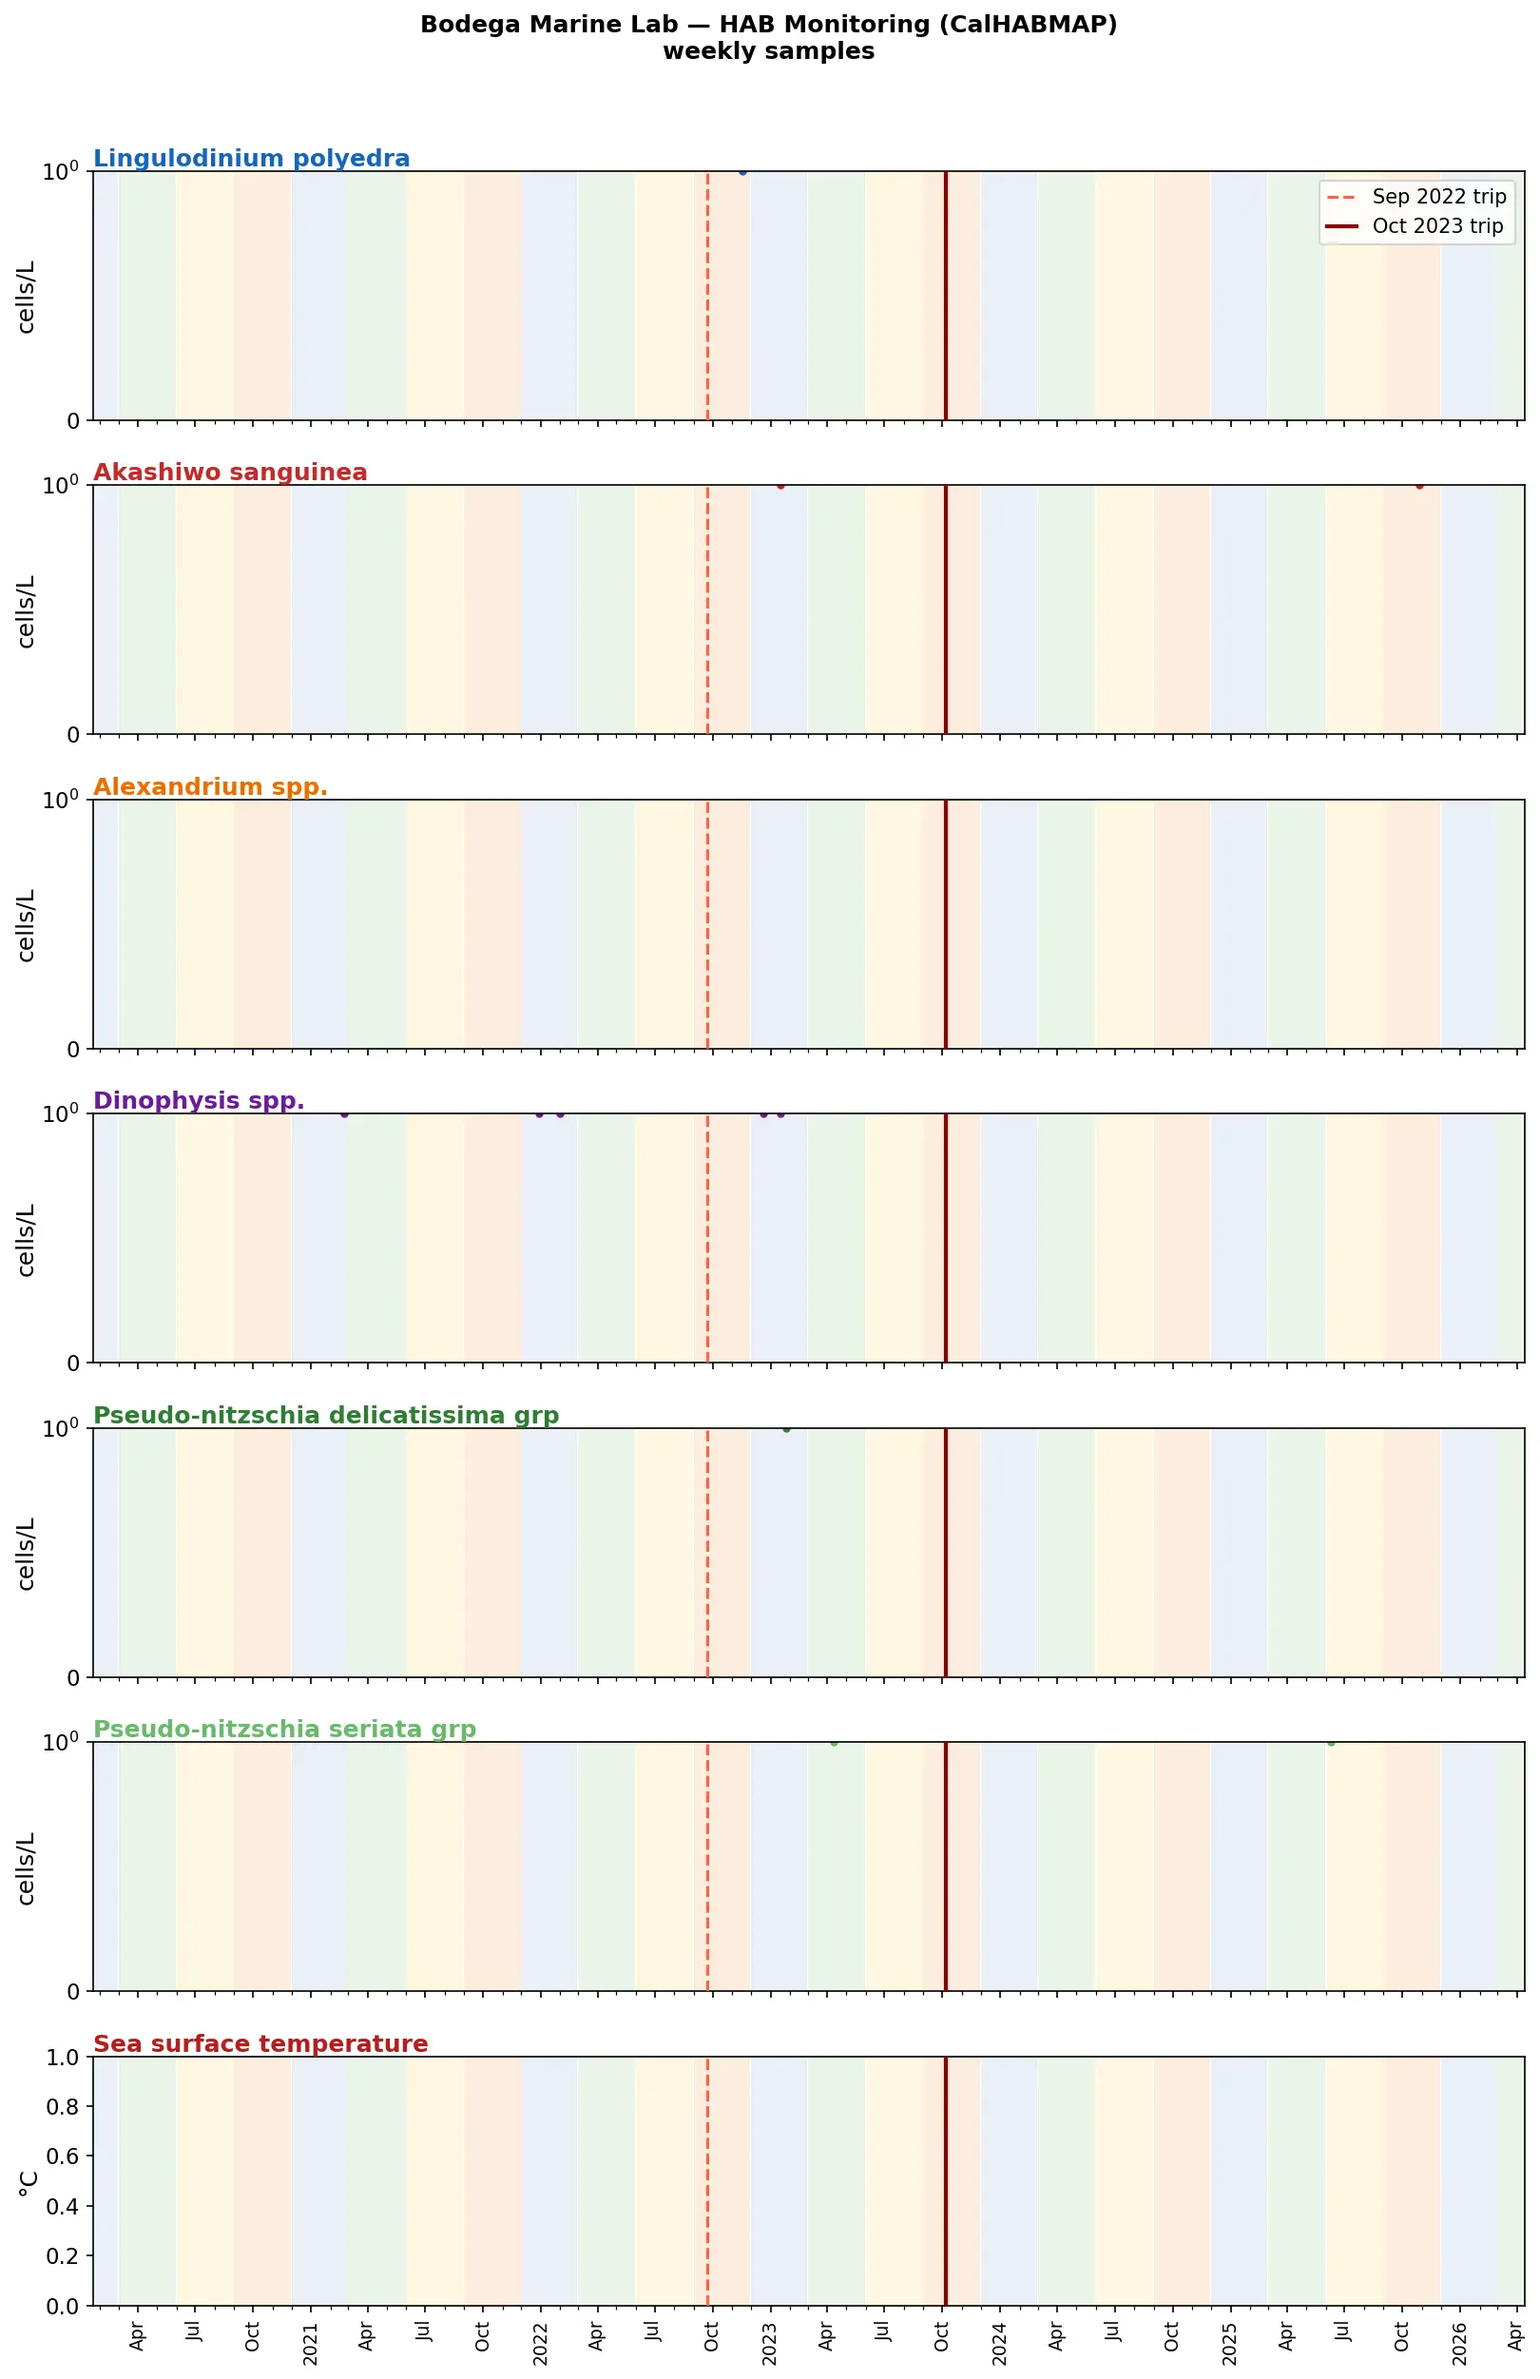
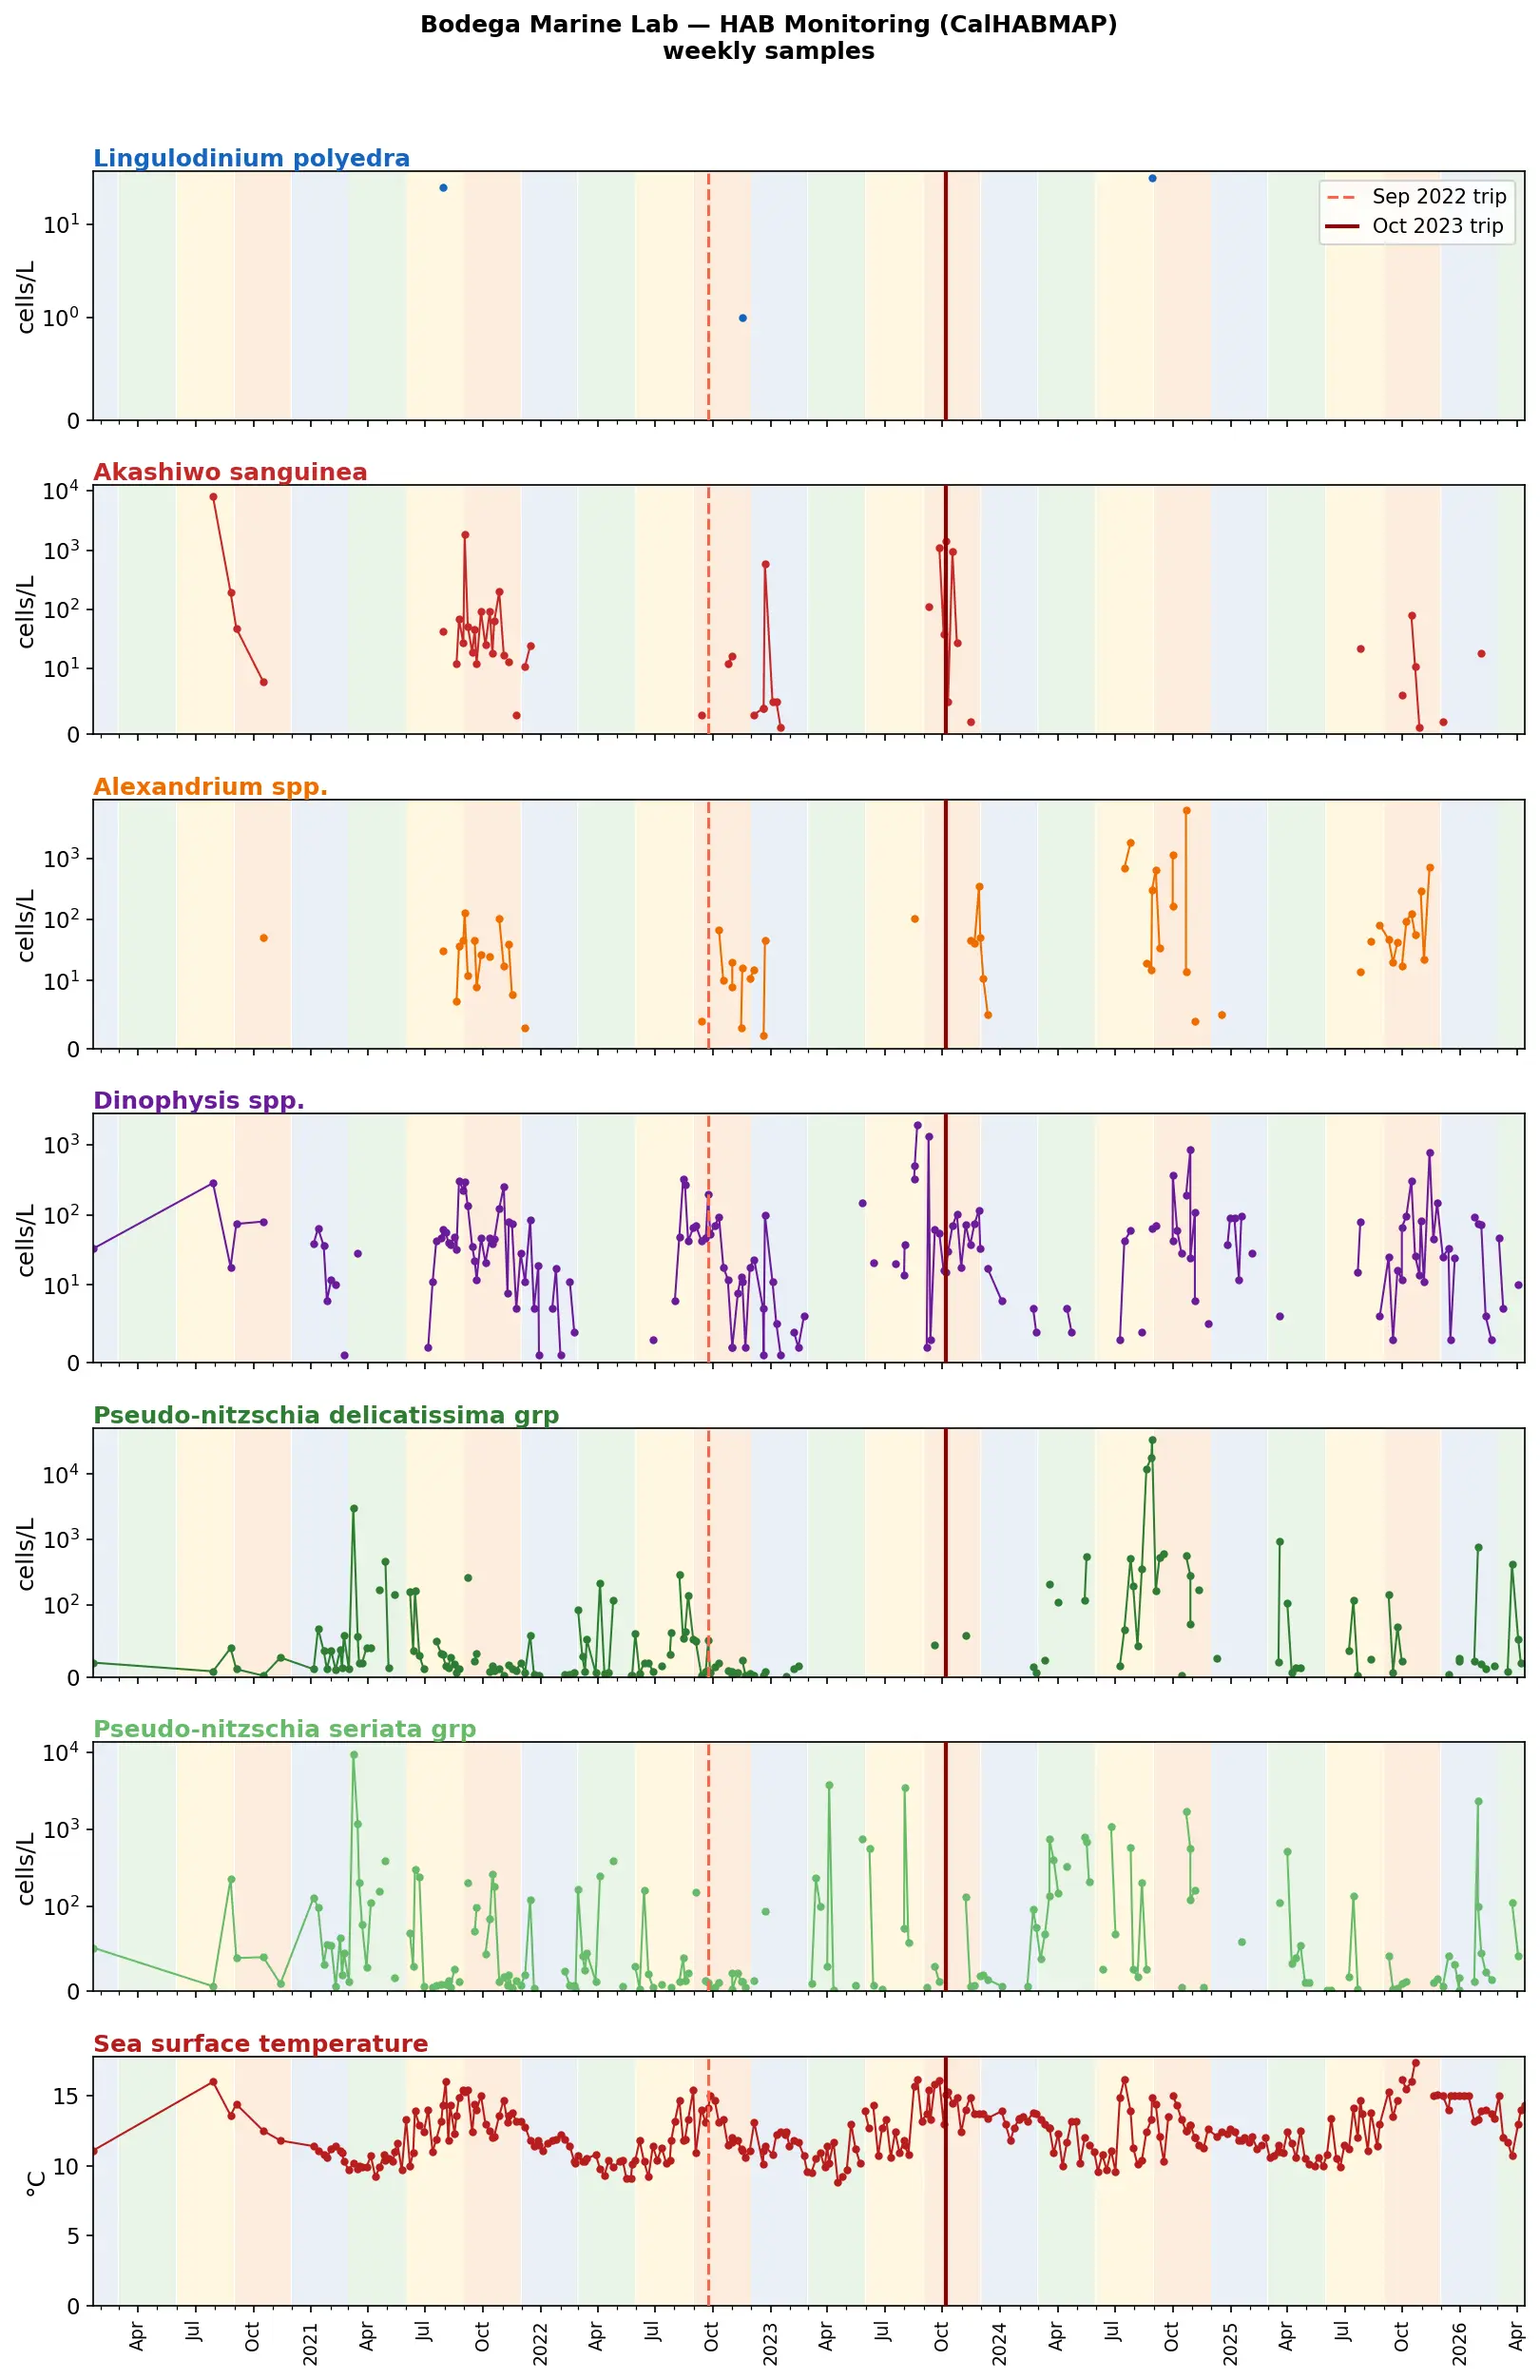
Fix symlog y-axis bottom clamping; regenerate plots and webps
Set ylim(bottom=0) after data is plotted so autoscaling sets the top
correctly before the floor is applied — fixes the previous ordering bug
that caused symlog panels to ignore the bottom constraint.

diff --git a/plot_all.py b/plot_all.py
@@ -104,7 +104,7 @@ def style_panel(ax, title, color, t0, t1, ylabel, linthresh=None) -> None:
     ax.set_xlim(t0, t1)
     if linthresh is not None:
         ax.set_yscale("symlog", linthresh=linthresh)
-    ax.set_ylim(bottom=0)
+    # ylim bottom set AFTER data is plotted so autoscaling sets the top first
 
 
 # ── Plot 1: Bodega Marine Lab ─────────────────────────────────────────────────
@@ -145,6 +145,7 @@ def plot_bodega() -> None:
                     ylabel="cells/L" if linthresh else "°C",
                     linthresh=linthresh)
         ax.plot(df.index, df[col], "o-", color=color, ms=3, lw=1)
+        ax.set_ylim(bottom=0)
         if i == 0:
             ax.legend(handles=TRIP_LINES, fontsize=FONT - 2, loc="upper right", handlelength=1.5)
 
@@ -176,9 +177,11 @@ def plot_cencoos() -> None:
 
     axes[0].plot(daily.index, daily["sea_water_temperature"], color="#C62828", lw=1)
     style_panel(axes[0], "Sea surface temperature", "#C62828", t0, t1, ylabel="°C")
+    axes[0].set_ylim(bottom=0)
 
     axes[1].fill_between(chl.index, chl, alpha=0.6, color="#2E7D32")
     style_panel(axes[1], "Chlorophyll (daily median, clipped at 50 µg/L)", "#2E7D32", t0, t1, ylabel="µg/L")
+    axes[1].set_ylim(bottom=0)
 
     quarterly_axis(axes[-1])
     plt.tight_layout(rect=[0, 0, 1, 0.96])
@@ -210,6 +213,7 @@ def plot_habmap() -> None:
     for i, (ax, (col, label, color, linthresh)) in enumerate(zip(axes, panels)):
         style_panel(ax, label, color, t0, t1, ylabel="cells/L", linthresh=linthresh)
         ax.plot(df.index, df[col].fillna(0), "o-", color=color, ms=4, lw=1)
+        ax.set_ylim(bottom=0)
         if i == 0:
             ax.legend(handles=TRIP_LINES, fontsize=FONT - 2, loc="upper right", handlelength=1.5)
 
